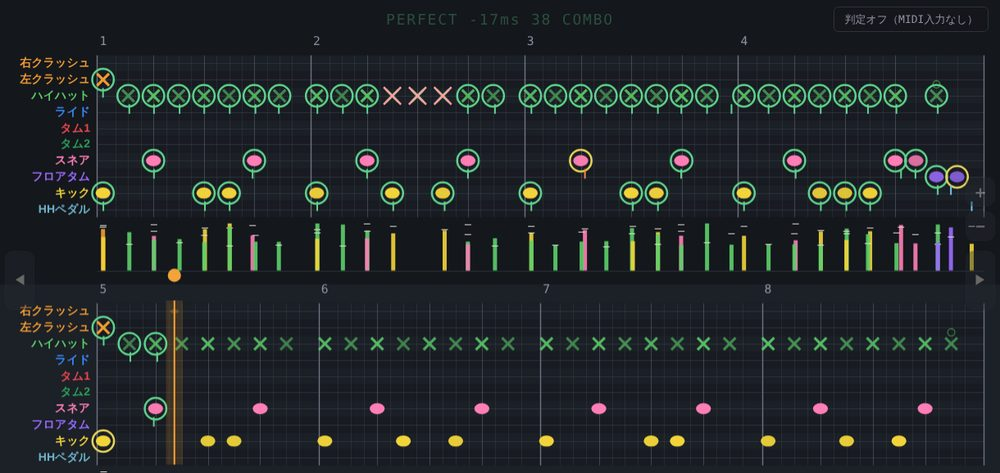
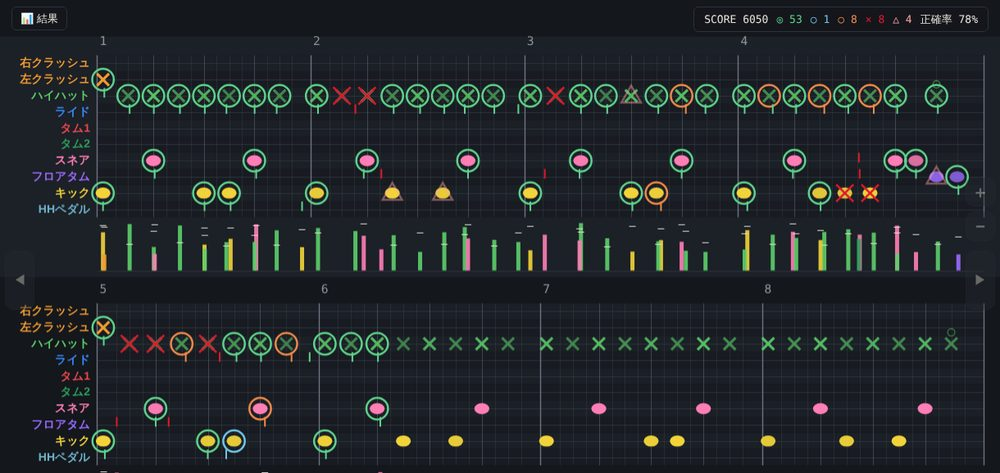
段の書き換えを遅らせる、空白の小節を表示しない設定、譜面の細かさ、叩き分けの表示、ゲーム表示のタッチ入力、配布ページに譜面の画像
Claude-Session: https://claude.ai/code/session_017Jg6AeVJ9Gu1Ns6RTtidSZ

diff --git a/index.html b/index.html
@@ -48,6 +48,7 @@ a.formBtn:hover{background:var(--accent);color:var(--onAccent)}
 .infos{display:grid;gap:6px}
 .feat ul,.feat ol{margin:0;padding-left:20px;font-size:14px;color:var(--dim)}
 .feat p+ul,.feat ul+p,.feat p+p{margin-top:6px}
+img.hero{display:block;width:100%;height:auto;margin:16px 0 0;border-radius:8px;border:1px solid var(--line)}
 footer{margin-top:34px;font-size:12px;color:var(--dim);border-top:1px solid var(--line);padding-top:12px}
 </style>
 </head>
@@ -63,11 +64,13 @@ footer{margin-top:34px;font-size:12px;color:var(--dim);border-top:1px solid var(
     <a class="choice" id="goMobile" href="drum-practice-mobile.html"><b>スマホ・タブレット版</b><span>タッチ操作向け</span></a>
   </div>
 
+  <img class="hero" src="img/score.jpg" alt="ドラム譜を表示して、叩いたタイミングを判定している画面">
+
   <h2>このソフトの特徴<span style="font-weight:400;letter-spacing:0">（押すと説明と画面が開きます）</span></h2>
   <div class="feats">
     <details class="feat"><summary>🥁 インストール不要・無料</summary><div><p>ブラウザで開くだけで使えます。パソコン版とスマホ・タブレット版があり、開いた端末に合わせておすすめの版を表示します。</p><img src="img/mobile.jpg" alt="インストール不要・無料の画面" loading="lazy" class="tall"></div></details>
     <details class="feat"><summary>🎼 MIDIファイルをドラム譜に</summary><div><p>市販のMIDIファイル（GS/XG）を読み込んで、ドラム譜を表示・再生します。表示は「譜面」「グリッド」「ゲーム」の3種類。32分音符や3連符にも対応しています。</p><img src="img/grid.jpg" alt="MIDIファイルをドラム譜にの画面" loading="lazy"></div></details>
-    <details class="feat"><summary>🎯 叩いたタイミングと強さを判定</summary><div><p>電子ドラムをUSBでつなぐと、叩くたびにジャスト・少しずれ・叩き忘れ・違うパッドを◯×で表示。強さは譜面の下にバーで出て、曲の終わりに結果が出ます。</p><img src="img/judge.jpg" alt="叩いたタイミングと強さを判定の画面" loading="lazy"></div></details>
+    <details class="feat"><summary>🎯 叩いたタイミングと強さを判定</summary><div><p>電子ドラムをUSBでつなぐと、叩くたびに◎（ジャスト）・○（少し早い／少し遅い）・×（外れ）・△（叩かなかった）で表示。強さは譜面の下にバーで出て、曲の終わりに結果が出ます。ローランドのDT-1風の表示にも切り替えられます。</p><img src="img/judge.jpg" alt="叩いたタイミングと強さを判定の画面" loading="lazy"></div></details>
     <details class="feat"><summary>🎚 ミキサーとループで集中練習</summary><div><p>ドラムのパーツごと・伴奏のパートごとに音量・ミュート・ソロ。テンポを落としての練習や、譜面をなぞって選んだ小節のループもできます。</p></div></details>
     <details class="feat"><summary>🎵 内蔵の練習パターン21種類</summary><div><p>MIDIファイルがなくても、入門〜中級のパターン（ベースとピアノの伴奏つき）ですぐ練習できます。</p></div></details>
     <details class="feat"><summary>⏱ こだわりのメトロノーム</summary><div><p>4分・8分・3連・16分・6連を、それぞれの音量で重ねて鳴らせます。裏拍だけ鳴らす、好きな位置にアクセント、無音の小節、自動テンポアップ、タップテンポも。</p><img src="img/metro.jpg" alt="こだわりのメトロノームの画面" loading="lazy" class="tall"></div></details>
